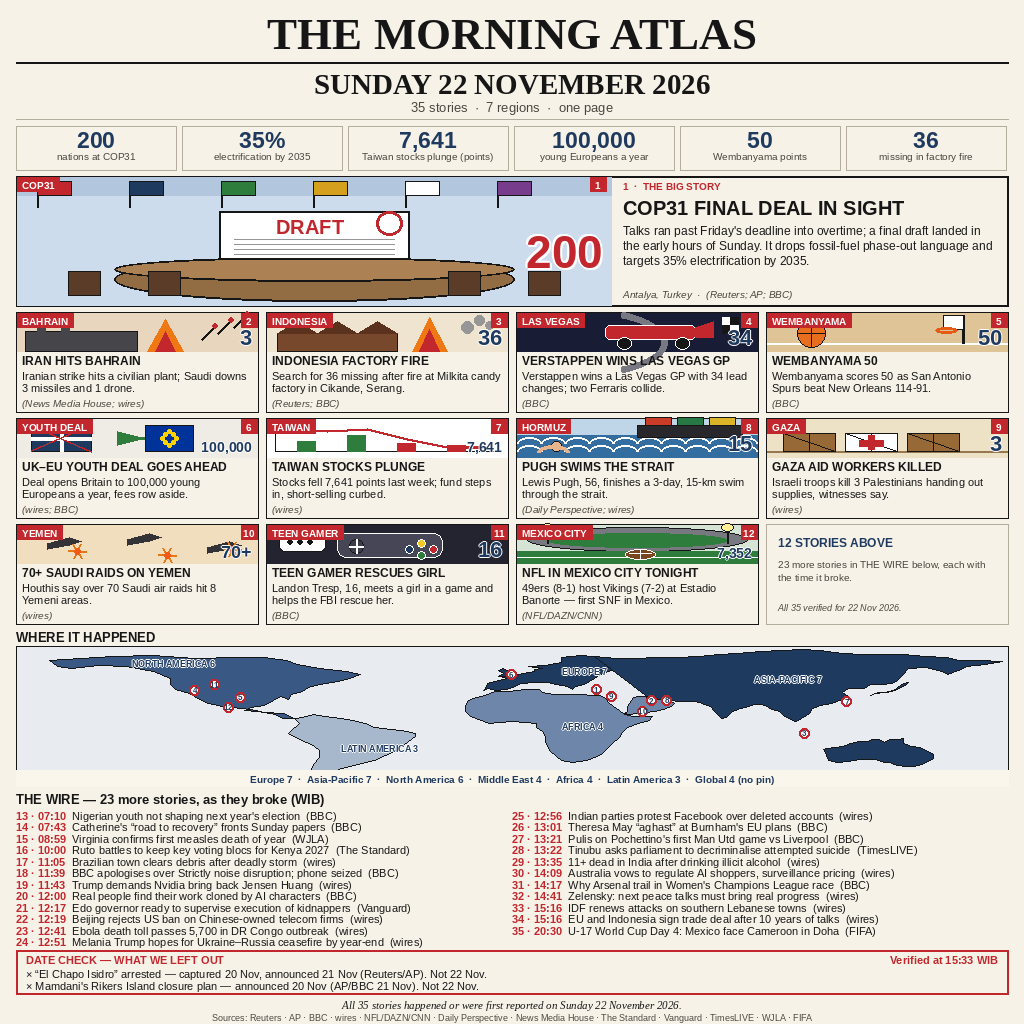
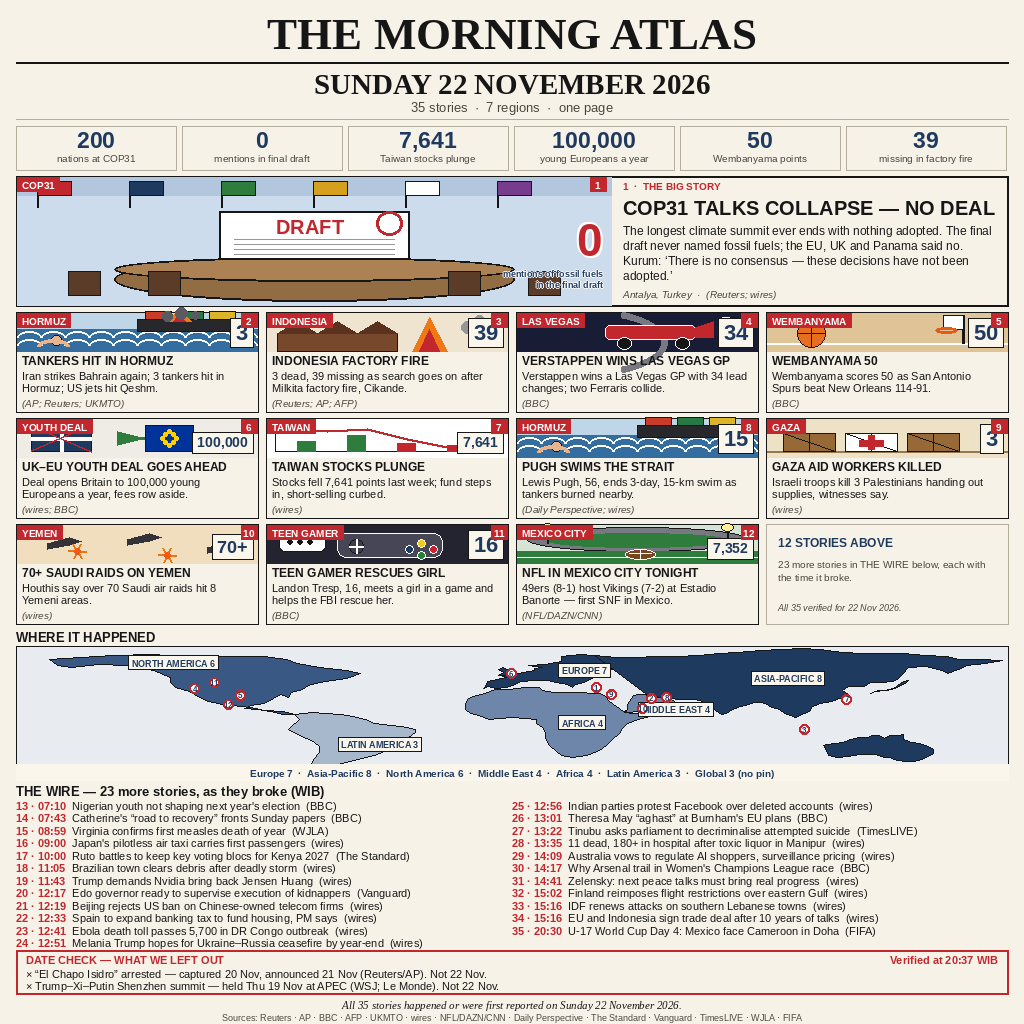
ATLAS v3: COP31 collapse hero, Hormuz tankers card, 39 missing, chip key numbers, all map labels, wire refresh

diff --git a/render_atlas.py b/render_atlas.py
@@ -1,5 +1,5 @@
 #!/usr/bin/env python3
-"""THE MORNING ATLAS - Sunday 22 November 2026.
+"""THE MORNING ATLAS v3 - Sunday 22 November 2026.
 One-page newspaper poster: 35 stories, 7 regions.
 Drawn from scratch with Pillow. Deterministic: no timestamps, no randomness,
 no network. Run: python3 render_atlas.py  ->  entry.png (1024x1024).
@@ -83,11 +83,11 @@ def draw_masthead(d):
 
 STRIP = [
     ("200", "nations at COP31"),
-    ("35%", "electrification by 2035"),
-    ("7,641", "Taiwan stocks plunge (points)"),
+    ("0", "mentions in final draft"),
+    ("7,641", "Taiwan stocks plunge"),
     ("100,000", "young Europeans a year"),
     ("50", "Wembanyama points"),
-    ("36", "missing in factory fire"),
+    ("39", "missing in factory fire"),
 ]
 
 
@@ -100,9 +100,11 @@ def draw_strip(d):
         nf = fnt(SANS_B, size)
         nw = d.textlength(num, font=nf)
         d.text((x + (cell_w - nw) / 2, 127), num, font=nf, fill=NAVY)
-        for i, ln in enumerate(wrap(d, label, fnt(SANS, 10), cell_w - 10)[:2]):
-            centre(d, 150 + i * 11, ln, fnt(SANS, 10), fill=SOFT,
-                   x0=x, x1=x + cell_w)
+        lines = wrap(d, label, fnt(SANS, 10), cell_w - 10)
+        if len(lines) != 1:
+            raise SystemExit("strip label wraps past one line: %r" % label)
+        centre(d, 152, lines[0], fnt(SANS, 10), fill=SOFT,
+               x0=x, x1=x + cell_w)
         x += cell_w + gap
 
 # ---- illustration helpers -------------------------------------------------
@@ -115,14 +117,16 @@ def banner(d, x, y, label):
 
 
 def big_num(d, x, y, w, h, num, fill=NAVY):
+    """Key number on a solid PAPER chip, bottom-right of the illustration,
+    so it never collides with scene elements."""
     n = len(num)
     size = 22 if n <= 2 else (18 if n <= 4 else 14)
     f = fnt(SANS_B, size)
     tw = d.textlength(num, font=f)
-    px, py = x + w - tw - 5, y + h - size - 4
-    for ox, oy in ((-1, 0), (1, 0), (0, -1), (0, 1)):
-        d.text((px + ox, py + oy), num, font=f, fill=(255, 255, 255))
-    d.text((px, py), num, font=f, fill=fill)
+    cx1, cy1 = x + w - 4, y + h - 4
+    cx0, cy0 = cx1 - tw - 10, cy1 - size - 7
+    d.rectangle([cx0, cy0, cx1, cy1], fill=PAPER, outline=INK, width=1)
+    d.text((cx0 + 5, cy0 + 2), num, font=f, fill=fill)
 
 
 def num_badge(d, x, y, n):
@@ -265,6 +269,17 @@ def scene_hormuz(d, x, y, w, h):
           width=4)
 
 
+def scene_hormuz2(d, x, y, w, h):
+    """Tanker ablaze in the strait — card 2 (Hormuz strikes)."""
+    scene_hormuz(d, x, y, w, h)
+    d.polygon([(x + 150, y + 8), (x + 162, y - 4), (x + 174, y + 8)],
+              fill=(240, 120, 20))
+    d.polygon([(x + 156, y + 8), (x + 162, y + 0), (x + 168, y + 8)], fill=RED)
+    for sx, sy, r in [(150, -2, 5), (164, -6, 6), (178, -2, 4)]:
+        d.ellipse([x + sx - r, y + sy, x + sx + r, y + sy + 2 * r],
+                  fill=(90, 90, 96))
+
+
 def scene_gaza(d, x, y, w, h):
     d.rectangle([x, y, x + w, y + h], fill=(238, 226, 198))
     d.line([(x, y + h - 6), (x + w, y + h - 6)], fill=(150, 120, 80), width=2)
@@ -335,38 +350,46 @@ def scene_mexico(d, x, y, w, h):
 
 # ---- hero + cards ---------------------------------------------------------
 
-HERO_BODY = ("Talks ran past Friday's deadline into overtime; a final draft "
-             "landed in the early hours of Sunday. It drops fossil-fuel "
-             "phase-out language and targets 35% electrification by 2035.")
+HERO_BODY = ("The longest climate summit ever ends with nothing adopted. "
+             "The final draft never named fossil fuels; the EU, UK and "
+             "Panama said no. Kurum: \u2018There is no consensus \u2014 these "
+             "decisions have not been adopted.\u2019")
 
 
 def draw_hero(d):
     d.rectangle([16, 176, 1008, 306], outline=INK, width=2)
     scene_cop31(d, 17, 177, 594, 128)
     hf = fnt(SANS_B, 46)
-    hw = d.textlength("200", font=hf)
-    hx, hy = 611 - 8 - hw, 226
+    hw = d.textlength("0", font=hf)
+    hx, hy = 611 - 8 - hw, 214
     for ox, oy in ((-2, 0), (2, 0), (0, -2), (0, 2), (-2, -2), (2, 2)):
-        d.text((hx + ox, hy + oy), "200", font=hf, fill=(255, 255, 255))
-    d.text((hx, hy), "200", font=hf, fill=RED)
+        d.text((hx + ox, hy + oy), "0", font=hf, fill=(255, 255, 255))
+    d.text((hx, hy), "0", font=hf, fill=RED)
+    cap = fnt(SANS_B, 9)
+    for i, ln in enumerate(("mentions of fossil fuels", "in the final draft")):
+        tw = d.textlength(ln, font=cap)
+        for ox, oy in ((-1, 0), (1, 0), (0, -1), (0, 1)):
+            d.text((603 - tw + ox, 268 + i * 11 + oy), ln, font=cap,
+                   fill=(255, 255, 255))
+        d.text((603 - tw, 268 + i * 11), ln, font=cap, fill=NAVY)
     banner(d, 17, 177, "COP31")
     num_badge(d, 590, 177, 1)
     d.text((623, 180), "1  ·  THE BIG STORY", font=fnt(SANS_B, 10), fill=RED)
-    d.text((623, 196), "COP31 FINAL DEAL IN SIGHT", font=fnt(SANS_B, 20),
+    d.text((623, 196), "COP31 TALKS COLLAPSE \u2014 NO DEAL", font=fnt(SANS_B, 20),
            fill=INK)
     for i, ln in enumerate(wrap(d, HERO_BODY, fnt(SANS, 12), 372)):
         d.text((623, 224 + i * 15), ln, font=fnt(SANS, 12), fill=INK)
-    d.text((623, 288), "Antalya, Turkey  ·  (Reuters; AP; BBC)",
+    d.text((623, 288), "Antalya, Turkey  ·  (Reuters; wires)",
            font=fnt(SANS_I, 10), fill=SOFT)
 
 
 CARDS = [
-    (2, "BAHRAIN", "IRAN HITS BAHRAIN",
-     "Iranian strike hits a civilian plant; Saudi downs 3 missiles and 1 drone.",
-     "(News Media House; wires)", scene_bahrain, "3"),
+    (2, "HORMUZ", "TANKERS HIT IN HORMUZ",
+     "Iran strikes Bahrain again; 3 tankers hit in Hormuz; US jets hit Qeshm.",
+     "(AP; Reuters; UKMTO)", scene_hormuz2, "3"),
     (3, "INDONESIA", "INDONESIA FACTORY FIRE",
-     "Search for 36 missing after fire at Milkita candy factory in Cikande, Serang.",
-     "(Reuters; BBC)", scene_indonesia, "36"),
+     "3 dead, 39 missing as search goes on after Milkita factory fire, Cikande.",
+     "(Reuters; AP; AFP)", scene_indonesia, "39"),
     (4, "LAS VEGAS", "VERSTAPPEN WINS LAS VEGAS GP",
      "Verstappen wins a Las Vegas GP with 34 lead changes; two Ferraris collide.",
      "(BBC)", scene_lasvegas, "34"),
@@ -380,7 +403,7 @@ CARDS = [
      "Stocks fell 7,641 points last week; fund steps in, short-selling curbed.",
      "(wires)", scene_taiwan, "7,641"),
     (8, "HORMUZ", "PUGH SWIMS THE STRAIT",
-     "Lewis Pugh, 56, finishes a 3-day, 15-km swim through the strait.",
+     "Lewis Pugh, 56, ends 3-day, 15-km swim as tankers burned nearby.",
      "(Daily Perspective; wires)", scene_hormuz, "15"),
     (9, "GAZA", "GAZA AID WORKERS KILLED",
      "Israeli troops kill 3 Palestinians handing out supplies, witnesses say.",
@@ -484,7 +507,7 @@ JAPAN = [(130, 31), (132, 33), (135, 34), (137, 35), (139, 37), (140, 39),
          (141, 41), (142, 43), (144, 44), (143, 42), (141, 39), (139, 36),
          (136, 34), (133, 34), (131, 32)]
 
-MAP_Y0, MAP_Y1 = 646, 786
+MAP_Y0, MAP_Y1 = 646, 780
 LAT_TOP, LAT_BOT = 80, -58
 
 
@@ -516,15 +539,17 @@ def draw_map(d):
                          ("LATIN AMERICA 3", -62, -16),
                          ("EUROPE 7", 18, 60),
                          ("AFRICA 4", 18, 6),
-                         ("ASIA-PACIFIC 7", 88, 52)]:
+                         ("MIDDLE EAST 4", 47, 20),
+                         ("ASIA-PACIFIC 8", 88, 52)]:
         lx, ly = proj(lo, la)
-        for ox, oy in ((-1, 0), (1, 0), (0, -1), (0, 1)):
-            d.text((lx + ox, ly + oy), text, font=lab, fill=(255, 255, 255))
+        tw = d.textlength(text, font=lab)
+        d.rectangle([lx - 3, ly - 2, lx + tw + 3, ly + 12], fill=PAPER,
+                    outline=INK, width=1)
         d.text((lx, ly), text, font=lab, fill=NAVY)
-    d.rectangle([16, 770, 1008, MAP_Y1], fill=PAPER)
-    centre(d, 773,
-           "Europe 7  ·  Asia-Pacific 7  ·  North America 6  ·  Middle East 4  ·  "
-           "Africa 4  ·  Latin America 3  ·  Global 4 (no pin)",
+    d.rectangle([16, MAP_Y1 - 16, 1008, MAP_Y1], fill=PAPER)
+    centre(d, MAP_Y1 - 13,
+           "Europe 7  ·  Asia-Pacific 8  ·  North America 6  ·  Middle East 4  ·  "
+           "Africa 4  ·  Latin America 3  ·  Global 3 (no pin)",
            fnt(SANS_B, 10), fill=NAVY)
     pins = [(1, 30.7, 36.9), (2, 50.6, 26.2), (3, 106.2, -6.1),
             (4, -115.1, 36.2), (5, -98.5, 29.4), (6, -0.1, 51.5),
@@ -546,42 +571,41 @@ WIRE = [
     (13, "07:10", "Nigerian youth not shaping next year's election", "BBC"),
     (14, "07:43", "Catherine's \u201croad to recovery\u201d fronts Sunday papers", "BBC"),
     (15, "08:59", "Virginia confirms first measles death of year", "WJLA"),
-    (16, "10:00", "Ruto battles to keep key voting blocs for Kenya 2027", "The Standard"),
-    (17, "11:05", "Brazilian town clears debris after deadly storm", "wires"),
-    (18, "11:39", "BBC apologises over Strictly noise disruption; phone seized", "BBC"),
+    (16, "09:00", "Japan's pilotless air taxi carries first passengers", "wires"),
+    (17, "10:00", "Ruto battles to keep key voting blocs for Kenya 2027", "The Standard"),
+    (18, "11:05", "Brazilian town clears debris after deadly storm", "wires"),
     (19, "11:43", "Trump demands Nvidia bring back Jensen Huang", "wires"),
-    (20, "12:00", "Real people find their work cloned by AI characters", "BBC"),
-    (21, "12:17", "Edo governor ready to supervise execution of kidnappers", "Vanguard"),
-    (22, "12:19", "Beijing rejects US ban on Chinese-owned telecom firms", "wires"),
+    (20, "12:17", "Edo governor ready to supervise execution of kidnappers", "Vanguard"),
+    (21, "12:19", "Beijing rejects US ban on Chinese-owned telecom firms", "wires"),
+    (22, "12:33", "Spain to expand banking tax to fund housing, PM says", "wires"),
     (23, "12:41", "Ebola death toll passes 5,700 in DR Congo outbreak", "wires"),
     (24, "12:51", "Melania Trump hopes for Ukraine\u2013Russia ceasefire by year-end", "wires"),
     (25, "12:56", "Indian parties protest Facebook over deleted accounts", "wires"),
     (26, "13:01", "Theresa May \u201caghast\u201d at Burnham's EU plans", "BBC"),
-    (27, "13:21", "Pulis on Pochettino's first Man Utd game vs Liverpool", "BBC"),
-    (28, "13:22", "Tinubu asks parliament to decriminalise attempted suicide", "TimesLIVE"),
-    (29, "13:35", "11+ dead in India after drinking illicit alcohol", "wires"),
-    (30, "14:09", "Australia vows to regulate AI shoppers, surveillance pricing", "wires"),
-    (31, "14:17", "Why Arsenal trail in Women's Champions League race", "BBC"),
-    (32, "14:41", "Zelensky: next peace talks must bring real progress", "wires"),
+    (27, "13:22", "Tinubu asks parliament to decriminalise attempted suicide", "TimesLIVE"),
+    (28, "13:35", "11 dead, 180+ in hospital after toxic liquor in Manipur", "wires"),
+    (29, "14:09", "Australia vows to regulate AI shoppers, surveillance pricing", "wires"),
+    (30, "14:17", "Why Arsenal trail in Women's Champions League race", "BBC"),
+    (31, "14:41", "Zelensky: next peace talks must bring real progress", "wires"),
+    (32, "15:02", "Finland reimposes flight restrictions over eastern Gulf", "wires"),
     (33, "15:16", "IDF renews attacks on southern Lebanese towns", "wires"),
     (34, "15:16", "EU and Indonesia sign trade deal after 10 years of talks", "wires"),
     (35, "20:30", "U-17 World Cup Day 4: Mexico face Cameroon in Doha", "FIFA"),
 ]
 
-
 def draw_wire(d):
-    d.text((16, 792), "THE WIRE \u2014 23 more stories, as they broke (WIB)",
+    d.text((16, 784), "THE WIRE \u2014 23 more stories, as they broke (WIB)",
            font=fnt(SANS_B, 13), fill=INK)
     f = fnt(SANS, 11)
     fb = fnt(SANS_B, 11)
     for i, (n, tm, text, src) in enumerate(WIRE):
         col, row = divmod(i, 12)
         x = 16 + col * 496
-        y = 810 + row * 11.5
+        y = 800 + row * 12.5
         head = "%d \u00b7 %s  " % (n, tm)
         line = head + text + "  (%s)" % src
         if d.textlength(line, font=f) > 488:
-            print("WIRE OVERFLOW:", n, line, file=sys.stderr)
+            raise SystemExit("WIRE OVERFLOW: %d %s" % (n, line))
         d.text((x, y), head, font=fb, fill=RED)
         d.text((x + d.textlength(head, font=fb), y), text + "  (%s)" % src,
                font=f, fill=INK)
@@ -589,13 +613,13 @@ def draw_wire(d):
 
 # ---- date check + footer --------------------------------------------------
 
-STAMP = "Verified at 15:33 WIB"
+STAMP = "Verified at 20:37 WIB"
 
 DATE_LINES = [
     "\u00d7 \u201cEl Chapo Isidro\u201d arrested \u2014 captured 20 Nov, announced "
     "21 Nov (Reuters/AP). Not 22 Nov.",
-    "\u00d7 Mamdani's Rikers Island closure plan \u2014 announced 20 Nov "
-    "(AP/BBC 21 Nov). Not 22 Nov.",
+    "\u00d7 Trump\u2013Xi\u2013Putin Shenzhen summit \u2014 held Thu 19 Nov at "
+    "APEC (WSJ; Le Monde). Not 22 Nov.",
 ]
 
 
@@ -614,8 +638,8 @@ def draw_footer(d):
            "All 35 stories happened or were first reported on Sunday 22 November 2026.",
            fnt(SERIF_I, 11), fill=INK)
     centre(d, 1012,
-           "Sources: Reuters \u00b7 AP \u00b7 BBC \u00b7 wires \u00b7 NFL/DAZN/CNN \u00b7 "
-           "Daily Perspective \u00b7 News Media House \u00b7 The Standard \u00b7 Vanguard \u00b7 "
+           "Sources: Reuters \u00b7 AP \u00b7 BBC \u00b7 AFP \u00b7 UKMTO \u00b7 wires \u00b7 "
+           "NFL/DAZN/CNN \u00b7 Daily Perspective \u00b7 The Standard \u00b7 Vanguard \u00b7 "
            "TimesLIVE \u00b7 WJLA \u00b7 FIFA",
            fnt(SANS, 9), fill=SOFT)
 

diff --git a/main.py b/main.py
@@ -1,29 +1,64 @@
 #!/usr/bin/env python3
-"""Entry program for make.fun news-image-20261122.
+"""Entry program for make.fun news-image-20261122 — ATLAS v3.
 
-Copies the pre-rendered poster (entry.png, built by render_atlas.py in this
-repository) to the output directory as entry.png. Deterministic: the same
-bytes are written on every run.
+Renders the one-page poster in-process (via render_atlas.build) and writes
+it to the output directory as entry.png, then verifies the artifact:
+1024x1024, at most 1 MiB. The renderer is deterministic (no clock, no
+randomness, no network), so two runs of this program produce byte-identical
+output files.
 """
 
+import hashlib
+import io
 import os
-import shutil
 import sys
+
+sys.path.insert(0, os.path.dirname(os.path.abspath(__file__)))
+
+import render_atlas  # noqa: E402
+
+MAX_BYTES = 1048576
+EXPECTED_SIZE = (1024, 1024)
+
+
+def render_poster_bytes():
+    """Build the poster image and return its PNG encoding as bytes."""
+    img = render_atlas.build()
+    if img.size != EXPECTED_SIZE:
+        raise SystemExit("poster has wrong dimensions: %r" % (img.size,))
+    buf = io.BytesIO()
+    img.save(buf, "PNG", optimize=True)
+    return buf.getvalue()
+
+
+def check_deterministic():
+    """Render twice and confirm the PNG bytes are identical."""
+    first = render_poster_bytes()
+    second = render_poster_bytes()
+    if first != second:
+        raise SystemExit("renderer is not deterministic")
+    return first
+
+
+def publish(data, out_dir):
+    """Write poster bytes into out_dir/entry.png; return the path."""
+    os.makedirs(out_dir, exist_ok=True)
+    dst = os.path.join(out_dir, "entry.png")
+    with open(dst, "wb") as fh:
+        fh.write(data)
+    return dst
 
 
 def main():
-    here = os.path.dirname(os.path.abspath(__file__))
-    src = os.path.join(here, "entry.png")
     out_dir = os.environ.get("MAKEFUN_OUTPUT_DIR", "/output")
-    os.makedirs(out_dir, exist_ok=True)
-    dst = os.path.join(out_dir, "entry.png")
-    shutil.copyfile(src, dst)
-    got = os.path.getsize(dst)
-    want = os.path.getsize(src)
-    if got != want:
-        print("size mismatch after copy", file=sys.stderr)
-        sys.exit(1)
-    print("wrote", dst, got, "bytes")
+    data = render_poster_bytes()
+    if len(data) > MAX_BYTES:
+        print("poster too big: %d bytes" % len(data), file=sys.stderr)
+        return 1
+    dst = publish(data, out_dir)
+    print("wrote", dst, len(data), "bytes",
+          hashlib.sha256(data).hexdigest())
+    return 0
 
 
 if __name__ == "__main__":
